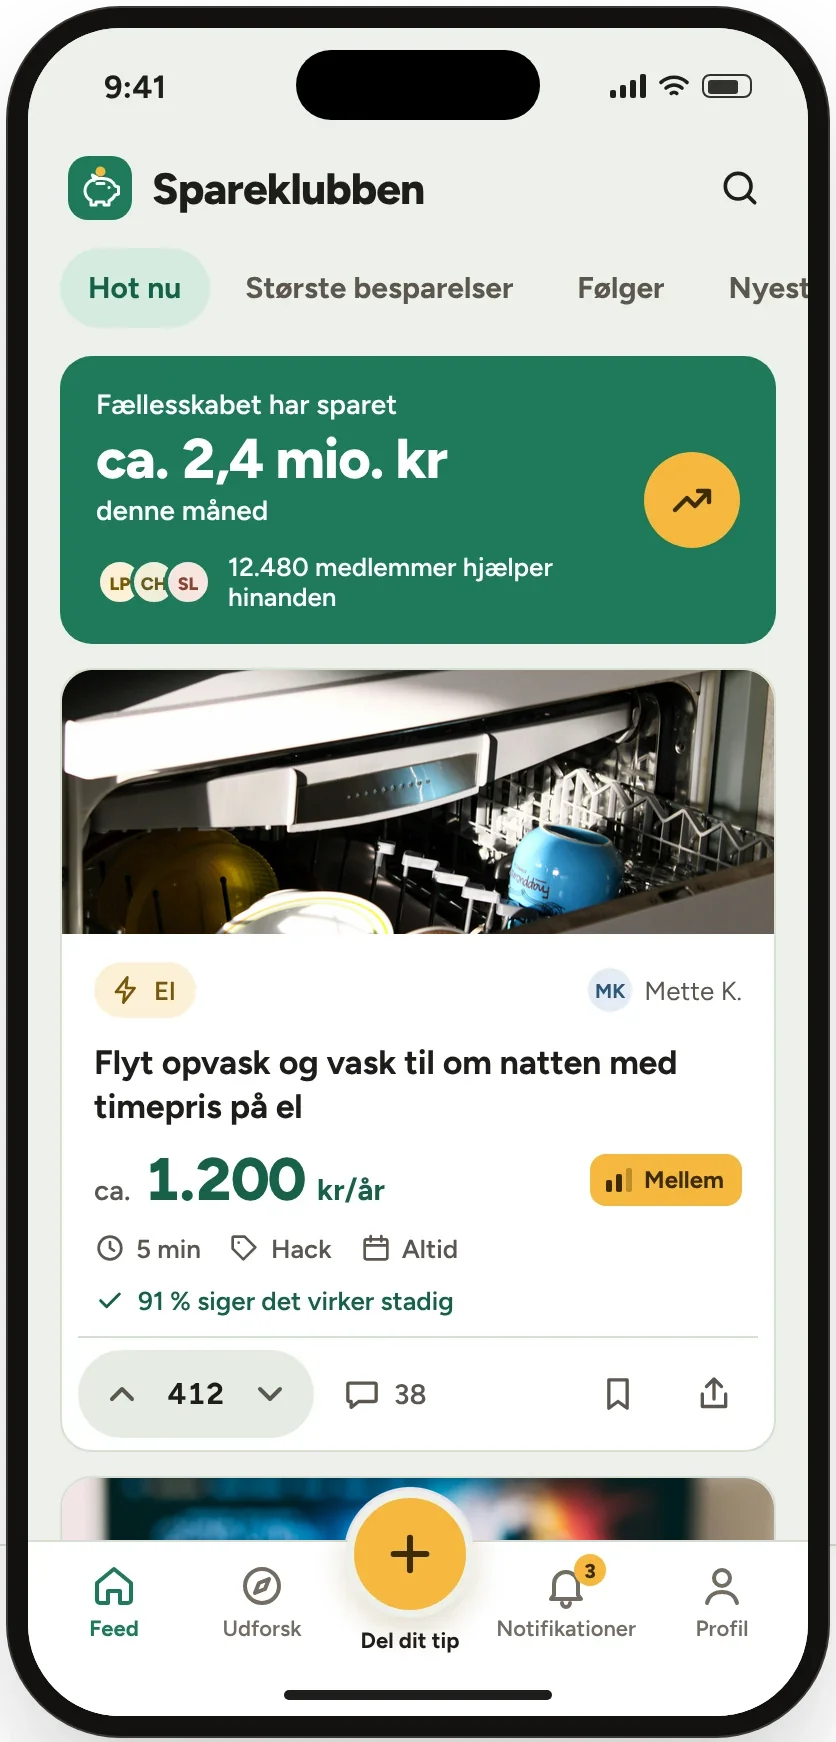
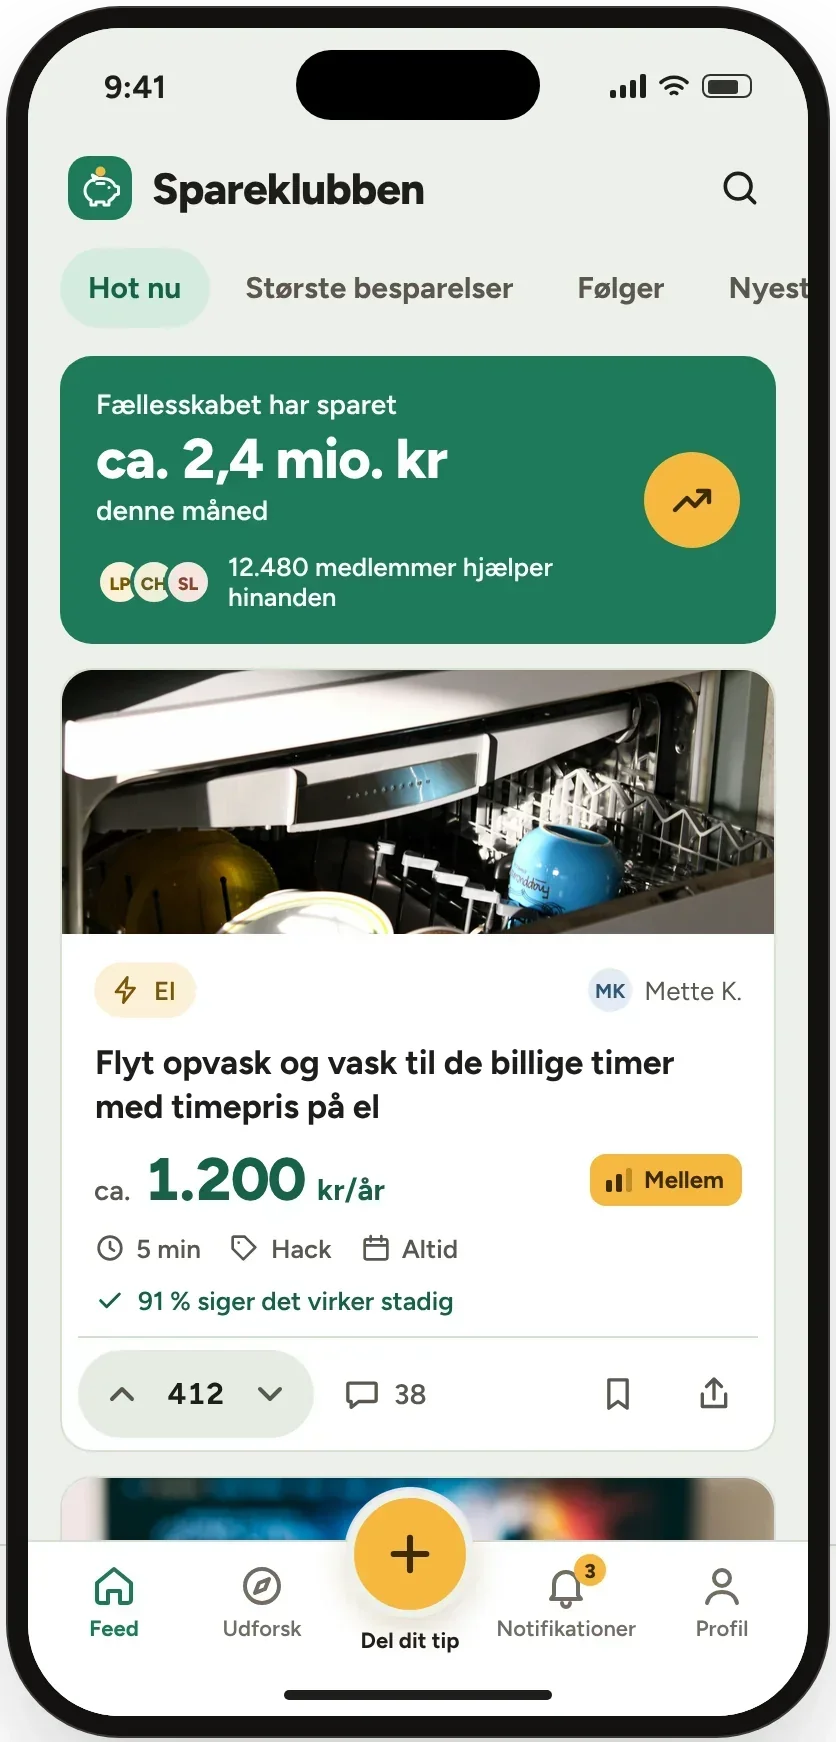
Skriv "de billige timer" i stedet for "om natten" i el-tippet
De billigste el-timer ligger ikke altid om natten – nogle gange midt på
dagen. Tip-titlen (også i telefon-mockuppen), alt-teksterne og
kommentaren i "Problemet" er rettet til.

Claude-Session: https://claude.ai/code/session_01Ejhbxz5qvfVt9LWbFQEwdH

Changed region(s): [[0.1244, 0.589, 0.4665, 0.651], [0.4976, 0.589, 0.8086, 0.62]]

diff --git a/site/main.js b/site/main.js
@@ -16,7 +16,7 @@
 
   // img: valgfri sti til et foto (fx '/img/tips/1.webp', ~660px bredt). Uden img vises et mønstret felt i kategoriens farve.
   const TIPS = [
-    {id: 1, cat: 'el', type: 'Hack', validity: 'Altid', effort: '5 min', amount: 1200, unit: 'kr/år', size: 'M', title: 'Flyt opvask og vask til om natten med timepris på el', score: 412, comments: 38, works: 91, photo: 'opvaskemaskine om natten', img: '/img/tips/1.webp', author: {name: 'Mette K.', initials: 'MK', tone: 'forsikring'}},
+    {id: 1, cat: 'el', type: 'Hack', validity: 'Altid', effort: '5 min', amount: 1200, unit: 'kr/år', size: 'M', title: 'Flyt opvask og vask til de billige timer med timepris på el', score: 412, comments: 38, works: 91, photo: 'åben opvaskemaskine', img: '/img/tips/1.webp', author: {name: 'Mette K.', initials: 'MK', tone: 'forsikring'}},
     {id: 2, cat: 'streaming', type: 'Vane', validity: 'Altid', effort: '5 min', amount: 1500, unit: 'kr/år', size: 'M', title: 'Hav kun én streamingtjeneste ad gangen – skift når serien er set', score: 356, comments: 52, works: 84, photo: 'fjernbetjening og tv', img: '/img/tips/2.webp', author: {name: 'Jonas B.', initials: 'JB', tone: 'mad'}},
     {id: 3, cat: 'dagligvarer', type: 'Deal', validity: '3 dage tilbage', expiring: true, effort: '2 min', amount: 60, unit: 'kr', size: 'S', title: '3 for 2 på kaffe – gælder til og med søndag', score: 98, comments: 12, works: 96, photo: 'kaffeposer på hylde', img: '/img/tips/3.webp', author: {name: 'Sara L.', initials: 'SL', tone: 'skat'}},
     {id: 4, cat: 'forsikring', type: 'Skift', validity: 'Altid', effort: '30 min', amount: 2000, unit: 'kr/år', size: 'L', title: 'Ring og bed om en ny pris på din bilforsikring hvert år', score: 287, comments: 24, works: 79, photo: 'bilnøgler og telefon', img: '/img/tips/4.webp', author: {kind: 'anon', name: 'Anonym sparer'}},

diff --git a/site/index.html b/site/index.html
@@ -71,7 +71,7 @@
     <div class="hero-visual">
       <div class="hero-glow" aria-hidden="true"></div>
       <div class="phone">
-        <img src="/img/app-feed.webp" width="418" height="871" alt="Spareklubben-appens feed med et sparetip om at flytte opvask og vask til om natten" fetchpriority="high">
+        <img src="/img/app-feed.webp" width="418" height="871" alt="Spareklubben-appens feed med et sparetip om at flytte opvask og vask til de billige timer" fetchpriority="high">
       </div>
       <div class="works-box" aria-hidden="true">
         <span class="works-title">Virker det stadig?</span>
@@ -91,7 +91,7 @@
       <div class="problem">
         <div class="thread">
           <span class="thread-title">Typisk tråd · 214 kommentarer</span>
-          <div class="cmt"><span class="av">TH</span><div class="bubble"><b>Tina H.</b>Er der nogen der ved om det kan betale sig at vaske om natten??</div></div>
+          <div class="cmt"><span class="av">TH</span><div class="bubble"><b>Tina H.</b>Er der nogen der ved om det kan betale sig at vaske, når strømmen er billigst??</div></div>
           <div class="cmt"><span class="av">MJ</span><div class="bubble"><b>Morten J.</b>Kommer an på din aftale</div></div>
           <div class="cmt"><span class="av">LS</span><div class="bubble"><b>Lene S.</b>vi gør det altid, sparer en del tror jeg</div></div>
           <div class="cmt"><span class="av">KP</span><div class="bubble"><b>Kasper P.</b>hvad med tørretumbler?</div></div>
